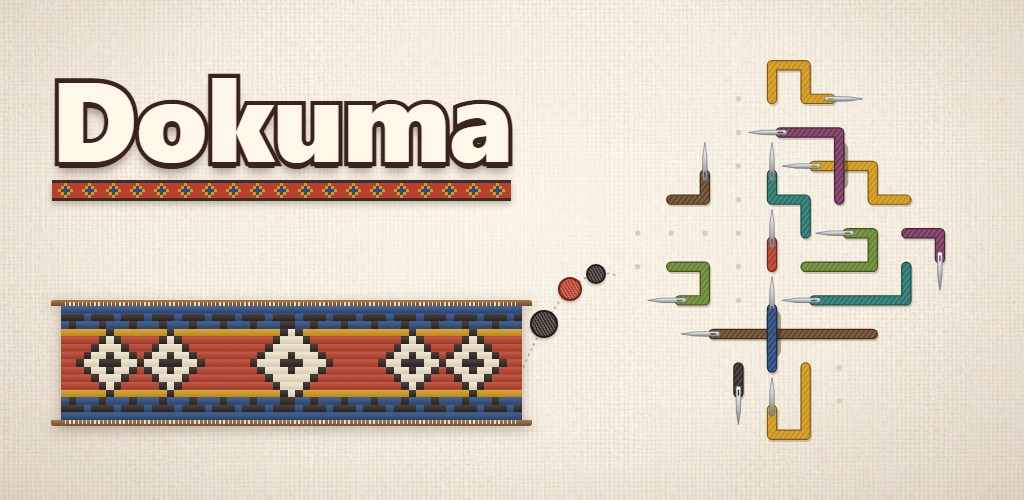
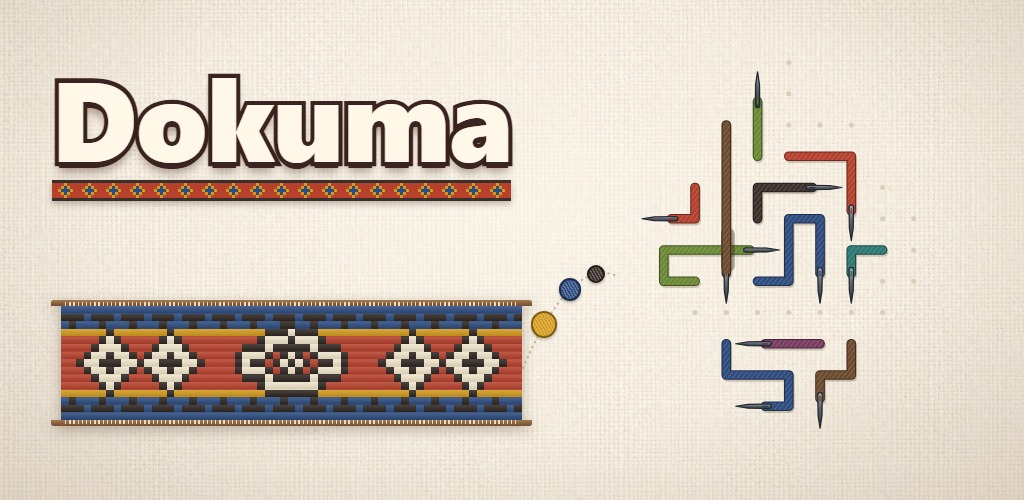
Dokuma: 15 dil, basılı tutma ve geri sar; yeni kapak ve uzaktan ayar

Changed region(s): [[0.625, 0.12, 0.9375, 0.9], [0.2188, 0.66, 0.3438, 0.81], [0.5, 0.51, 0.5938, 0.69]]

diff --git a/dokuma/index.html b/dokuma/index.html
@@ -55,13 +55,13 @@
     <h2>Nasıl oynanır</h2>
     <ul>
       <li>İpliğe dokun: önü açıksa kayarak çıkar ve yumak olup tezgâha gider.</li>
-      <li>Önünde başka bir iplik varsa çıkamaz ve bir can gider.</li>
+      <li>Önünde başka bir iplik varsa çıkamaz ve bir can gider. Basılı tutarsan can gitmeden yolunu görürsün; can bitince birkaç ipliği bedava geri sarabilirsin.</li>
       <li>Düğümlerde iki iplik üst üste geçer: önce üstteki çıkar.</li>
       <li>Bağlı iki iplik birlikte çıkar; mühürlü iplik, aynı işaretli anahtar ipliği çekilmeden çıkamaz.</li>
       <li>Örtülü ipliğe değen bir ipliği çekince örtü kalkar; makara ipliğin yolunu döndürür.</li>
       <li>Çektiğin iplikler tezgâhta ilmek ilmek dokunur. Seviye bitince kilimin galerine girer.</li>
       <li>Uşak'tan Hakkari'ye sekiz kilim bölgesi, 400 seviye: yolculuk haritasında her bölgenin kendi boyaları ve kilimi var. Ardından usta tezgâhında seviyeler bitmez.</li>
-      <li>Her gün yeni bir kilim; istersen akşamları kısa bir hatırlatma gelir. Oyun 11 dilde.</li>
+      <li>Her gün yeni bir kilim; istersen akşamları kısa bir hatırlatma gelir. Oyun 15 dilde.</li>
     </ul>
 
     <h2>Destek</h2>
@@ -87,20 +87,20 @@
       <img src="ikon.png" alt="">
       <div><h1>Dokuma</h1><p class="sub">Thread puzzle</p></div>
     </header>
-    <img class="cover" src="kapak.jpg" alt="Dokuma: a kilim being woven on a loom, with threads">
-    <p class="lead">Pull threads in the right order, untie knots and weave a kilim every level.</p>
+    <img class="cover" src="kapak.jpg" alt="Dokuma: a rug being woven on a loom, with threads">
+    <p class="lead">Pull threads in the right order and weave a new rug on every level.</p>
     <p class="stores">Coming soon to Google Play and the App Store.</p>
 
     <h2>How to play</h2>
     <ul>
       <li>Tap a thread: if its way is clear, it slides out and flies to the loom as a ball of yarn.</li>
-      <li>If another thread is in the way, it can't move and you lose a life.</li>
+      <li>If another thread is in the way, it can't move and you lose a life. Press and hold to see its way without losing one; out of lives, rewind a few threads for free.</li>
       <li>At knots, two threads cross over and under: the top one comes out first.</li>
       <li>Tied threads come out together; a sealed thread waits until the key thread with the same mark is pulled.</li>
       <li>Pull a thread touching a cover and the cover lifts; a pulley turns a thread's path.</li>
-      <li>The threads you pull are woven stitch by stitch on the loom. Finish the level and your kilim joins your gallery.</li>
-      <li>Eight kilim regions from Uşak to Hakkari, 400 levels: on the journey map each region has its own dyes and its own kilim. After that, the levels on the master loom never run out.</li>
-      <li>A new kilim every day, with an optional short reminder in the evening. The game is in 11 languages.</li>
+      <li>The threads you pull are woven stitch by stitch on the loom. Finish the level and your rug joins your gallery.</li>
+      <li>Eight weaving regions from Uşak to Hakkari, 400 levels: on the journey map each region has its own dyes and its own rug. After that, the levels on the master loom never run out.</li>
+      <li>A new rug every day, with an optional short reminder in the evening. The game is in 15 languages.</li>
     </ul>
 
     <h2>Support</h2>
